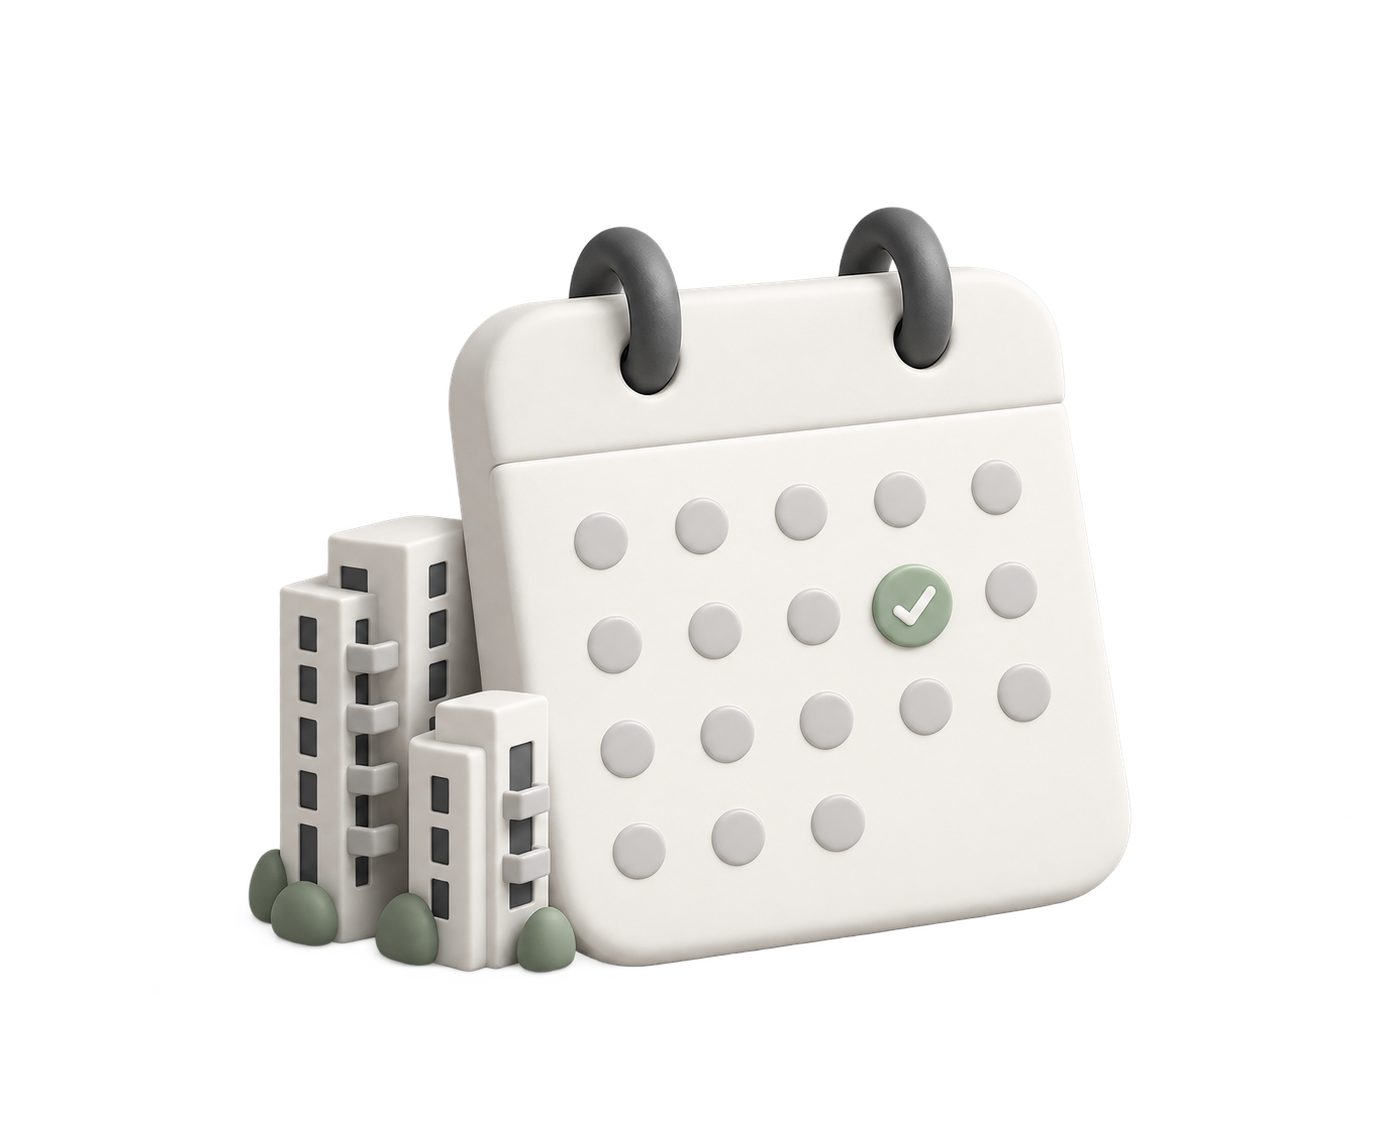
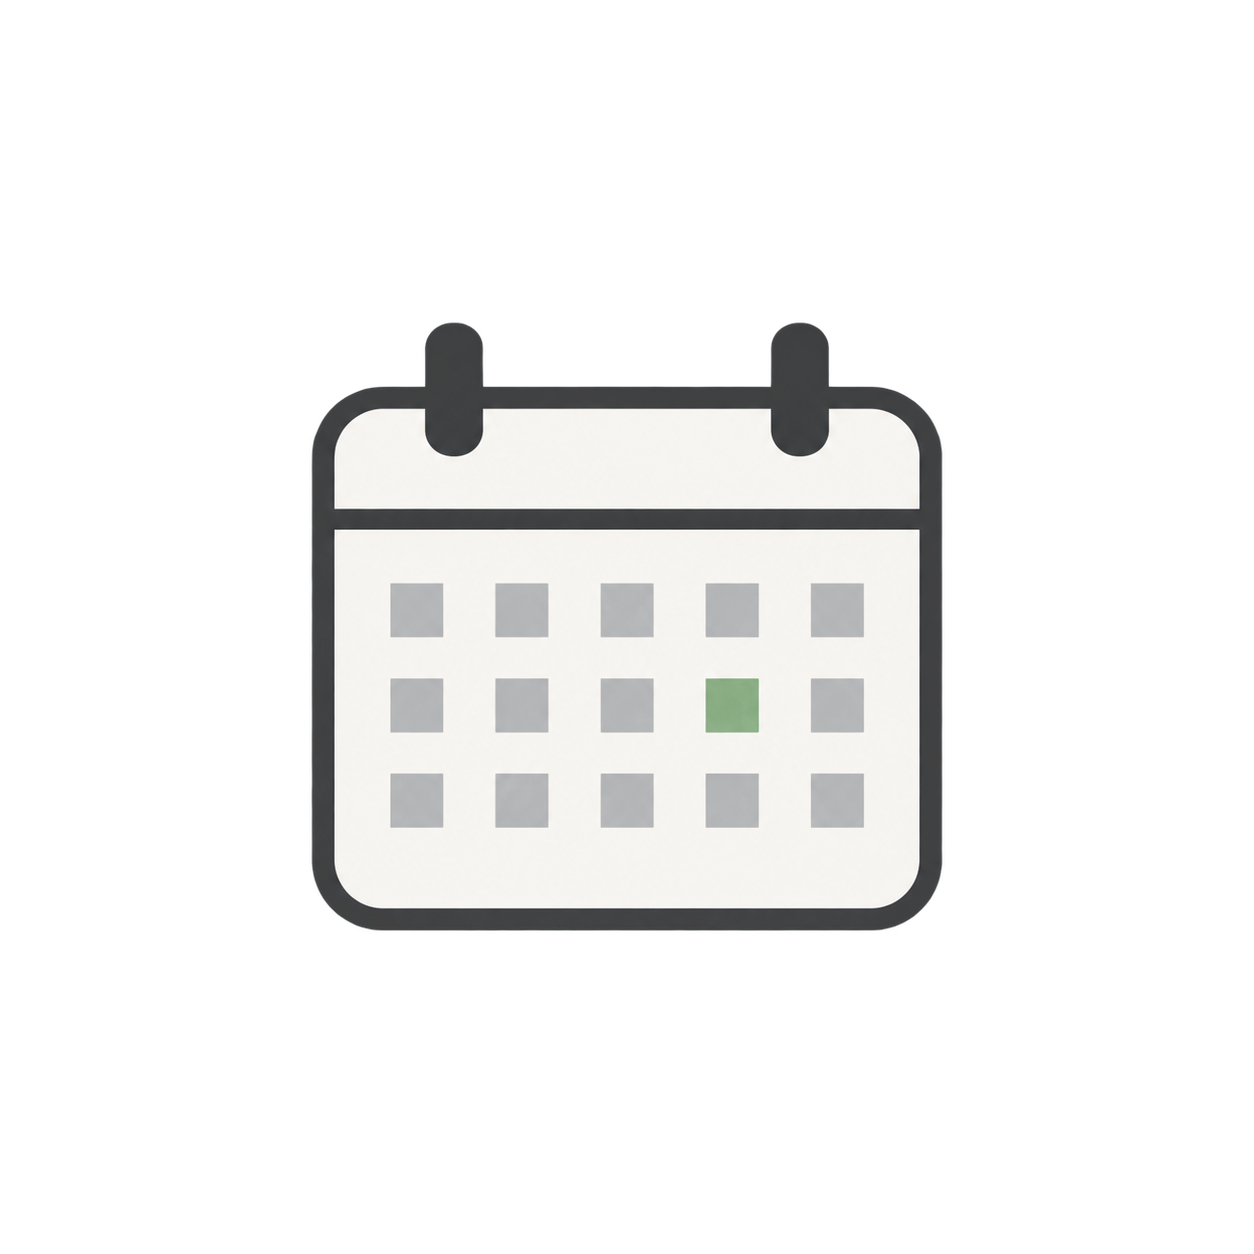
Replace clay empty-state artwork with flat calendar and sheet graphics

Changed region(s): [[0.1555, 0.1834, 0.8397, 0.8559]]

diff --git a/mobile/assets/schedule-empty.prompt.md b/mobile/assets/schedule-empty.prompt.md
@@ -1,7 +1,7 @@
 # Schedule empty-state artwork
 
-Generated using the built-in image_gen tool. Asset: schedule-empty.png. Transparent background retained.
+Generated with the built-in image_gen tool. Asset: schedule-empty.png. Transparent background.
 
 ## Final prompt
 
-Use case: stylized-concept. Create a polished minimal illustration for the empty Schedule page of Repeat AI, a mobile real estate outreach app. A small ivory-white calendar tile with two charcoal binding rings and a simple grid of softly embossed gray dots, paired with two tiny sculptural apartment towers behind its lower left edge. One subtle soft green check on the calendar. Rounded matte ceramic shapes, restrained premium app onboarding illustration, soft studio shadows, gentle three-quarter angle, compact centered composition with generous transparent margins. Neutral white, light gray and charcoal palette, single muted green accent. Actual transparent background, suitable on light and dark UI. No words, letters, numbers, logos, extra decorative confetti, gradients in backdrop, or full UI mockup. Output one standalone raster illustration.
+Create one flat 2D vector-style calendar illustration for a minimal mobile app empty state. Single front-facing calendar only. Crisp uniform charcoal outlines, simple solid off-white fill, two small charcoal binding tabs, a sparse grid of small gray squares with one muted sage-green square. Straight-on orthographic view. Perfectly flat graphic design: no 3D, no clay, no ceramic, no bevels, no texture, no gradients, no shadows, no perspective. No buildings, surrounding objects, badges, words, letters, numbers, or decoration. Compact centered calendar with modest transparent margins, genuine transparent background. Professional restrained icon illustration, readable at 150 pixels.

diff --git a/mobile/assets/spreadsheets-empty.prompt.md b/mobile/assets/spreadsheets-empty.prompt.md
@@ -1,7 +1,7 @@
 # Spreadsheet empty-state artwork
 
-Generated with the built-in image_gen tool. Asset: spreadsheets-empty.png, transparent background.
+Generated with the built-in image_gen tool. Asset: spreadsheets-empty.png. Transparent background.
 
 ## Final prompt
 
-Use case: stylized-concept. Standalone illustration for the empty Spreadsheets page in Repeat AI mobile app, matching a premium minimal onboarding illustration set. Two overlapping ivory-white spreadsheet document tiles, one upright in front with a folded top-right corner and a simple embossed three-column grid, a second slightly angled behind. Small muted sage-green circular import arrow badge at lower right. Rounded matte ceramic forms, soft studio lighting and gentle shadows, slight three-quarter perspective, compact centered composition with generous transparent margins. Restrained ivory, soft gray, charcoal and one muted sage-green accent. Actual transparent background suitable for light and dark UI. No words, letters, numbers, buildings, calendar rings, logos, confetti, or full UI. One polished raster asset.
+Create one flat 2D vector-style spreadsheet document illustration for a minimal mobile app empty state. Single front-facing sheet with a folded upper-right corner, crisp uniform charcoal outline, solid off-white fill, simple three-column grid of solid light gray cells and one muted sage-green header row. Straight-on orthographic view. Perfectly flat graphic design: no 3D, clay, ceramic, bevels, textures, gradients, shadows, perspective, stacked objects, badges, words, letters, numbers, or decoration. Compact centered document with modest transparent margins, genuine transparent background. Professional restrained icon illustration readable at 150 pixels.
